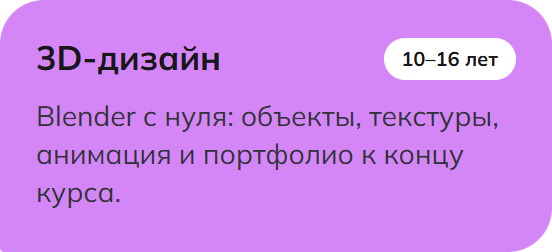
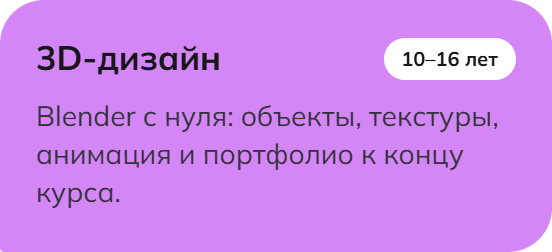
Прозрачные углы у блоков

diff --git a/index.html b/index.html
@@ -22,16 +22,16 @@
     <li><a href="email/autumn26/logo-white.png">logo-white.png</a> <span>3.0 КБ</span></li>
     <li><a href="email/autumn26/shape-green.png">shape-green.png</a> <span>8.0 КБ</span></li>
     <li><a href="email/autumn26/star-orchid.png">star-orchid.png</a> <span>8.7 КБ</span></li>
-    <li><a href="email/autumn26/blocks/card1.png">blocks/card1.png</a> <span>19.9 КБ</span></li>
-    <li><a href="email/autumn26/blocks/card2.png">blocks/card2.png</a> <span>18.6 КБ</span></li>
-    <li><a href="email/autumn26/blocks/card3.png">blocks/card3.png</a> <span>18.5 КБ</span></li>
-    <li><a href="email/autumn26/blocks/card4.png">blocks/card4.png</a> <span>19.4 КБ</span></li>
-    <li><a href="email/autumn26/blocks/footer.png">blocks/footer.png</a> <span>28.4 КБ</span></li>
-    <li><a href="email/autumn26/blocks/hero-btn.png">blocks/hero-btn.png</a> <span>22.1 КБ</span></li>
-    <li><a href="email/autumn26/blocks/hero-top.png">blocks/hero-top.png</a> <span>67.1 КБ</span></li>
-    <li><a href="email/autumn26/blocks/promo-btn.png">blocks/promo-btn.png</a> <span>5.9 КБ</span></li>
-    <li><a href="email/autumn26/blocks/promo-fine.png">blocks/promo-fine.png</a> <span>11.1 КБ</span></li>
-    <li><a href="email/autumn26/blocks/promo-top.png">blocks/promo-top.png</a> <span>23.8 КБ</span></li>
-    <li><a href="email/autumn26/blocks/review.png">blocks/review.png</a> <span>34.6 КБ</span></li>
+    <li><a href="email/autumn26/blocks/card1.png">blocks/card1.png</a> <span>22.3 КБ</span></li>
+    <li><a href="email/autumn26/blocks/card2.png">blocks/card2.png</a> <span>20.7 КБ</span></li>
+    <li><a href="email/autumn26/blocks/card3.png">blocks/card3.png</a> <span>21.0 КБ</span></li>
+    <li><a href="email/autumn26/blocks/card4.png">blocks/card4.png</a> <span>21.8 КБ</span></li>
+    <li><a href="email/autumn26/blocks/footer.png">blocks/footer.png</a> <span>29.6 КБ</span></li>
+    <li><a href="email/autumn26/blocks/hero-btn.png">blocks/hero-btn.png</a> <span>24.3 КБ</span></li>
+    <li><a href="email/autumn26/blocks/hero-top.png">blocks/hero-top.png</a> <span>72.7 КБ</span></li>
+    <li><a href="email/autumn26/blocks/promo-btn.png">blocks/promo-btn.png</a> <span>6.4 КБ</span></li>
+    <li><a href="email/autumn26/blocks/promo-fine.png">blocks/promo-fine.png</a> <span>12.0 КБ</span></li>
+    <li><a href="email/autumn26/blocks/promo-top.png">blocks/promo-top.png</a> <span>26.3 КБ</span></li>
+    <li><a href="email/autumn26/blocks/review.png">blocks/review.png</a> <span>39.4 КБ</span></li>
   </ul>
 </body></html>
